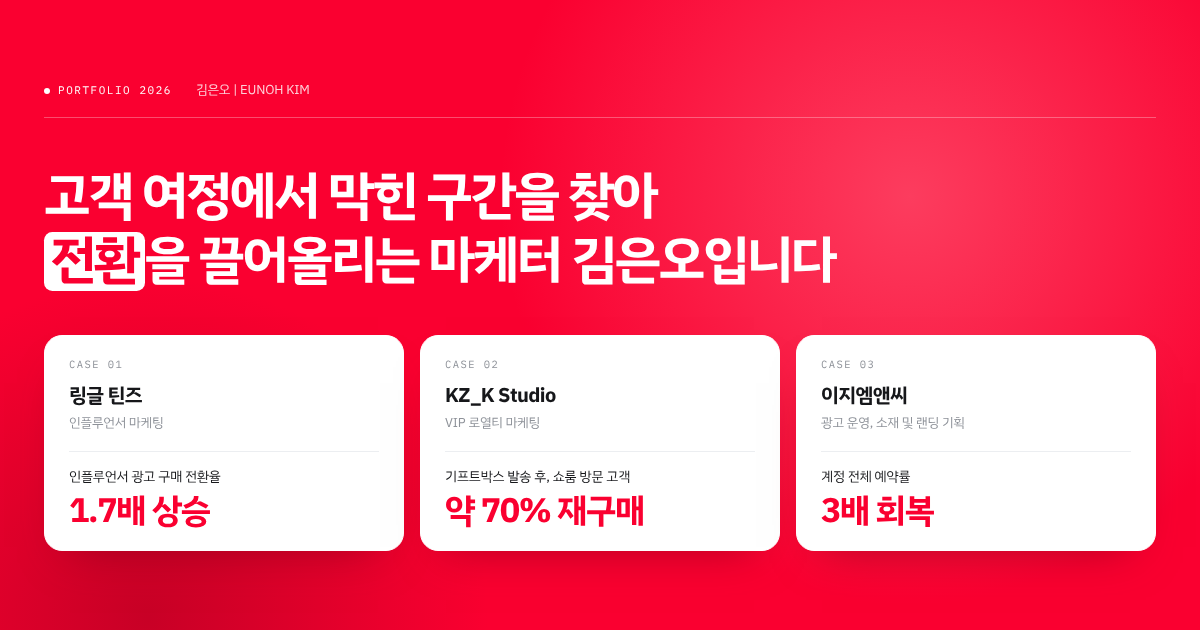
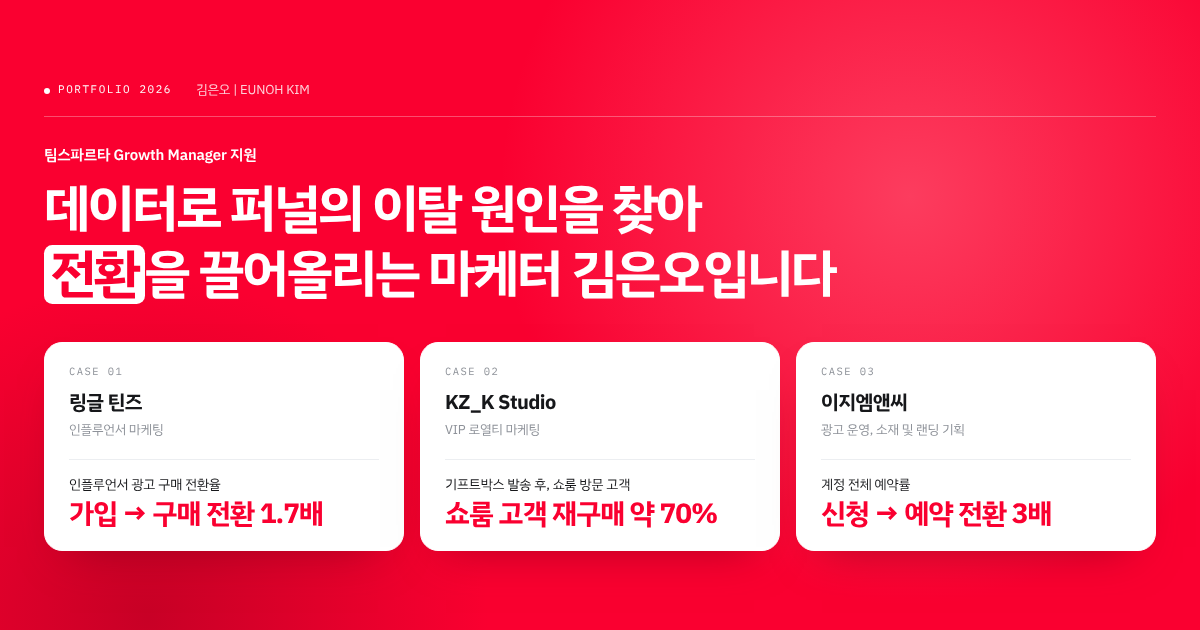
portfolio-teamsparta: cover only - new headline, Growth Manager label, new tile copy, refreshed preview image
Claude-Session: https://claude.ai/code/session_013smscFGWWBPRpsfkpqHfav

diff --git a/portfolio-teamsparta/index.html b/portfolio-teamsparta/index.html
@@ -384,6 +384,12 @@ figcaption{margin-top:7px;font-size:12px;color:var(--mute);line-height:1.4}
 .hero .hi-res{border-top-color:#eceef1}
 .hero .hi-lb{color:var(--sp-navy)}
 .hero .hi-num{color:var(--sp-blue)}
+/* 표지: 지원 직무 라벨, 길어진 타일 문구 */
+.hero .hero-meta{margin-bottom:clamp(20px,2.3vw,32px)}
+.hero .hero-role{margin:0 0 clamp(10px,1vw,14px);font-size:clamp(14px,1.15vw,16px);font-weight:600;line-height:1.6;color:#fff;letter-spacing:-.01em}
+.hero .hi-num{font-size:clamp(20px,2.4vw,34px);letter-spacing:-.035em}
+@media screen and (max-width:860px){.hero .hi-num{font-size:clamp(22px,7vw,30px)}}
+@media screen and (max-width:380px){.hero .hero-title{font-size:8vw}}
 
 /* Contact: 첫 화면과 같은 팀스파르타 레드 #FA0030 바탕 */
 .closing{--sp-blue:#fa0030;--sp-navy:#16171a;--sp-mute:#8e9299;overflow:hidden;background:var(--sp-blue);color:#fff}
@@ -434,27 +440,28 @@ figcaption{margin-top:7px;font-size:12px;color:var(--mute);line-height:1.4}
       <span>김은오 | EUNOH KIM</span>
       <a class="site-link" id="siteLink" href="https://eunohkim9815-pixel.github.io/portfolio-teamsparta/" target="_blank" rel="noopener"><b>웹사이트에서 보기</b><span>eunohkim9815-pixel.github.io/portfolio-teamsparta</span><i aria-hidden="true">↗</i></a>
     </div>
-    <h1 class="hero-title">고객 여정에서 막힌 구간을 찾아<br> <span class="hl">전환</span>을 끌어올리는 마케터 김은오입니다</h1>
+    <p class="hero-role">팀스파르타 Growth Manager 지원</p>
+    <h1 class="hero-title">데이터로 퍼널의 이탈 원인을 찾아<br> <span class="hl">전환</span>을 끌어올리는 마케터 김은오입니다</h1>
     <nav class="hl-band" aria-label="케이스 바로가기">
       <a class="hi" href="#case-1" data-case="1">
         <span class="mono">Case 01</span>
         <span class="hi-name">링글 틴즈</span>
         <span class="hi-tag">인플루언서 마케팅</span>
-        <span class="hi-res"><span class="hi-lb">인플루언서 광고 구매 전환율</span><span class="hi-num" data-grow>1.7배 상승</span></span>
+        <span class="hi-res"><span class="hi-lb">인플루언서 광고 구매 전환율</span><span class="hi-num" data-grow>가입 → 구매 전환 1.7배</span></span>
         <span class="hi-go">케이스 보기 ↓</span>
       </a>
       <a class="hi" href="#case-2" data-case="2">
         <span class="mono">Case 02</span>
         <span class="hi-name">KZ_K Studio</span>
         <span class="hi-tag">VIP 로열티 마케팅</span>
-        <span class="hi-res"><span class="hi-lb">기프트박스 발송 후, 쇼룸 방문 고객</span><span class="hi-num" data-grow>약 70% 재구매</span></span>
+        <span class="hi-res"><span class="hi-lb">기프트박스 발송 후, 쇼룸 방문 고객</span><span class="hi-num" data-grow>쇼룸 고객 재구매 약 70%</span></span>
         <span class="hi-go">케이스 보기 ↓</span>
       </a>
       <a class="hi" href="#case-3" data-case="3">
         <span class="mono">Case 03</span>
         <span class="hi-name">이지엠앤씨</span>
         <span class="hi-tag">광고 운영, 소재 및 랜딩 기획</span>
-        <span class="hi-res"><span class="hi-lb">계정 전체 예약률</span><span class="hi-num" data-grow>3배 회복</span></span>
+        <span class="hi-res"><span class="hi-lb">계정 전체 예약률</span><span class="hi-num" data-grow>신청 → 예약 전환 3배</span></span>
         <span class="hi-go">케이스 보기 ↓</span>
       </a>
     </nav>
